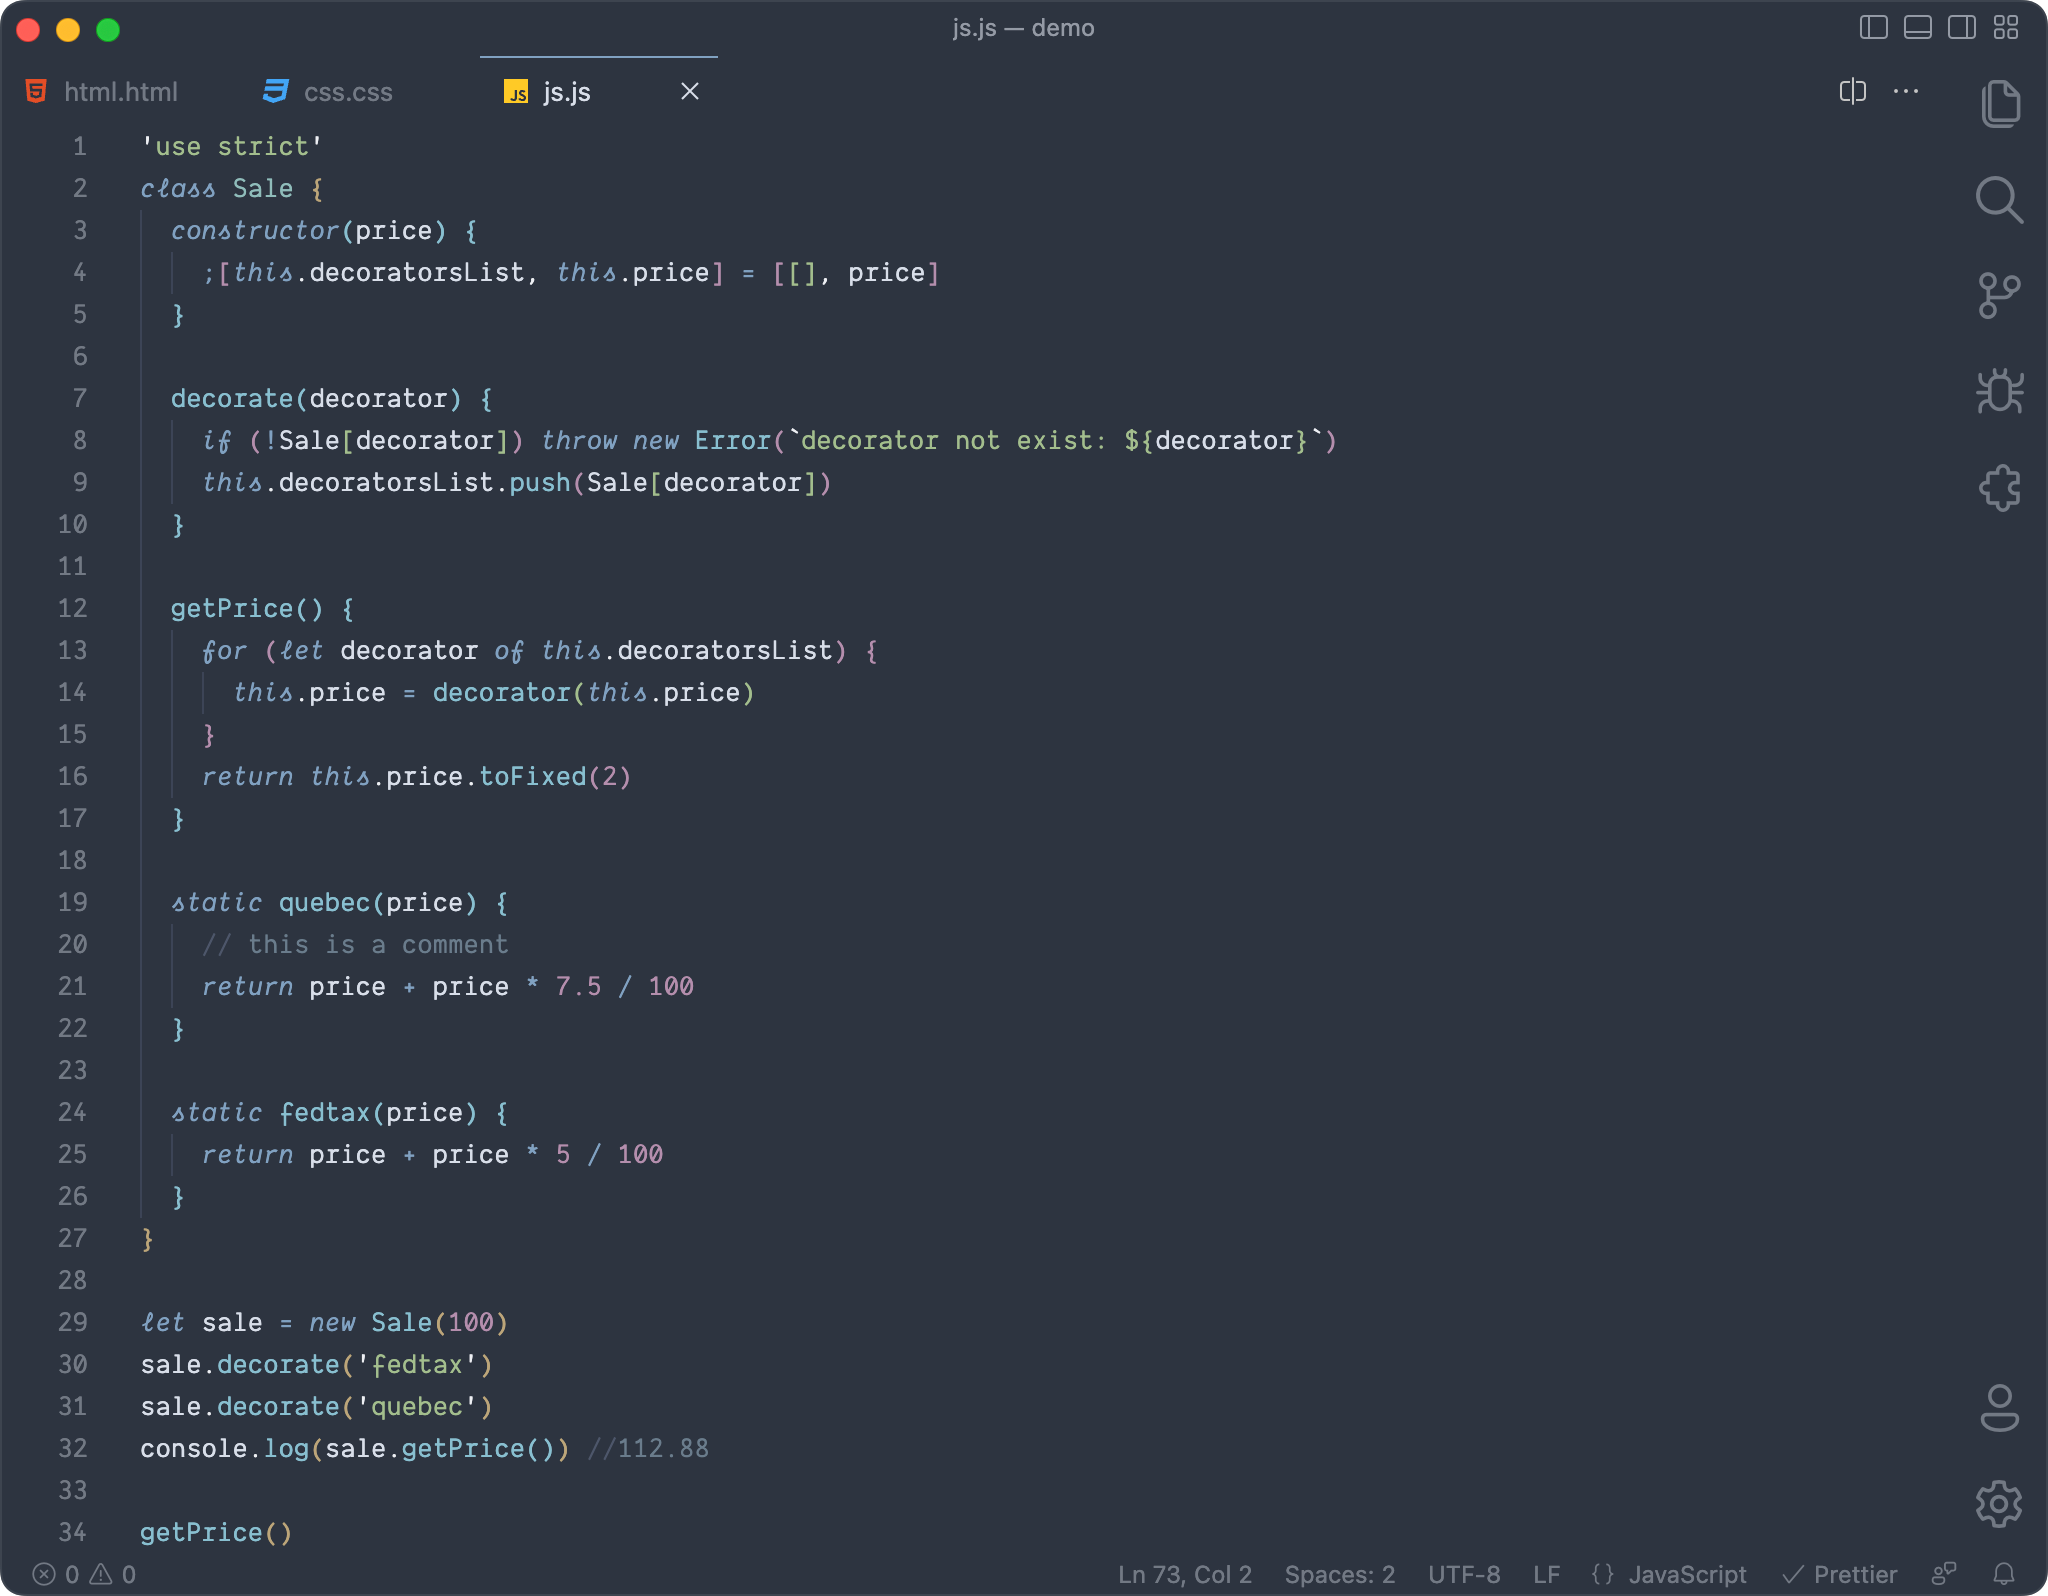
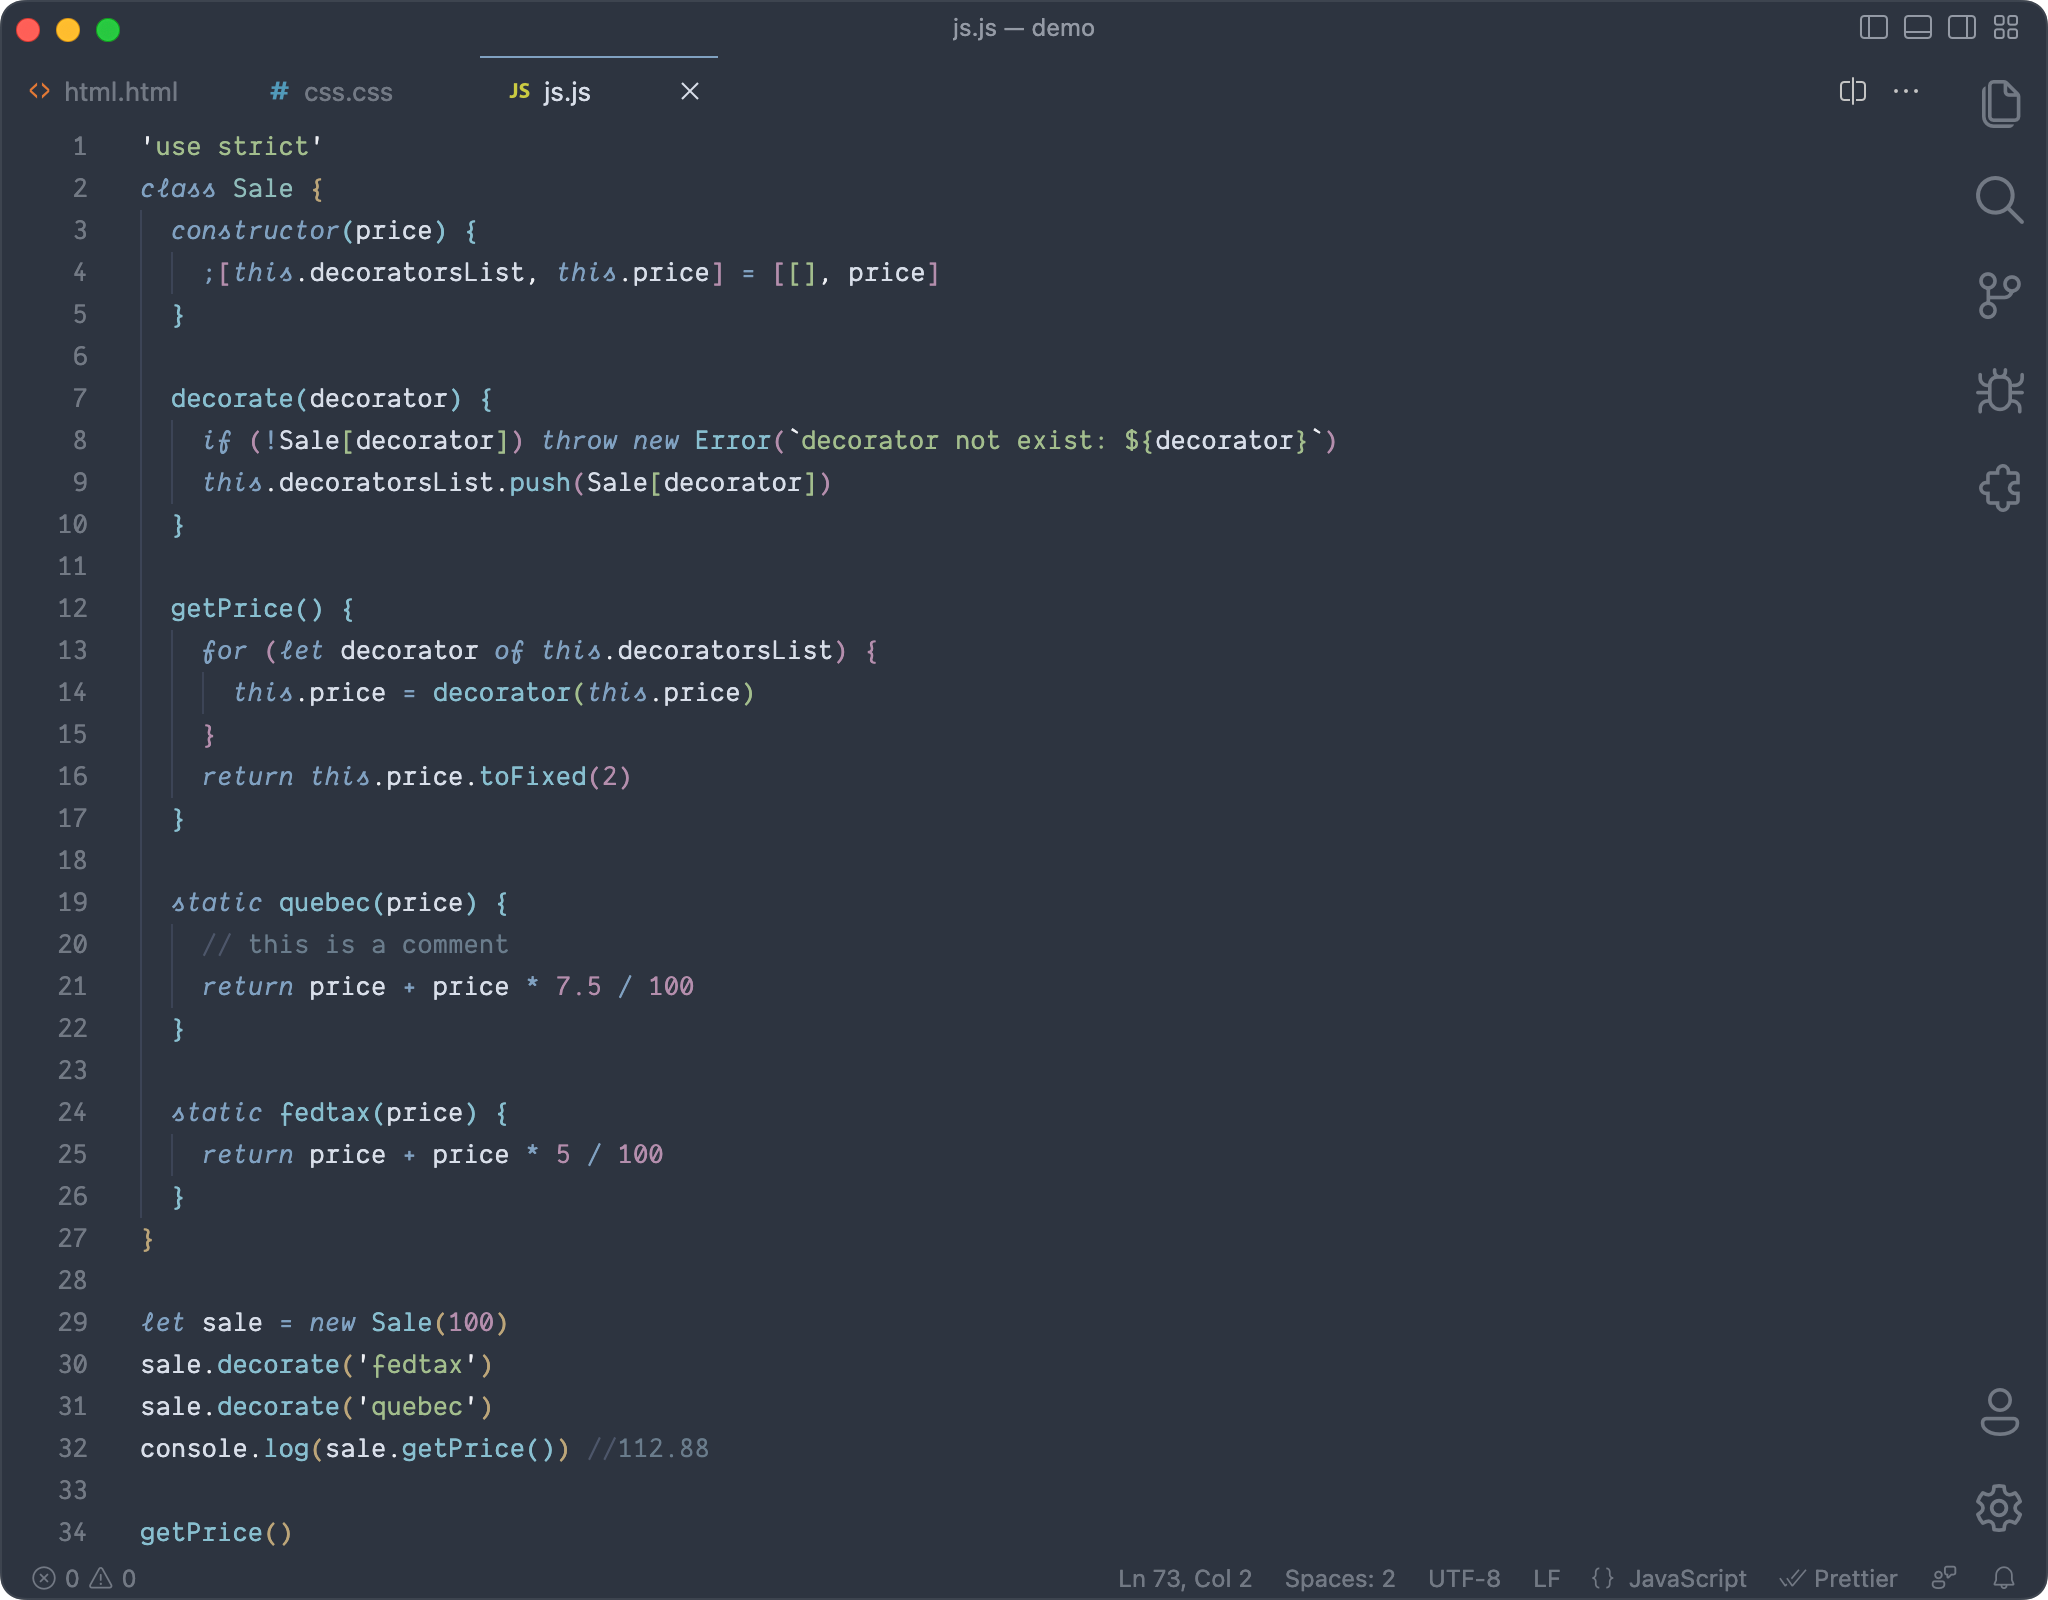
fix

diff --git a/README.md b/README.md
@@ -25,7 +25,7 @@ Select `Nord Flat` as your color theme.
 ## Preferences shown in the screenshots
 
 - Product icon: [Fluent Icons](https://marketplace.visualstudio.com/items?itemName=miguelsolorio.fluent-icons)
-- File icon: [Material Icon Theme](https://marketplace.visualstudio.com/items?itemName=PKief.material-icon-theme)
+
 - Font: [Dank Mono](https://dank.sh/)
 
 - Move side bar right:
